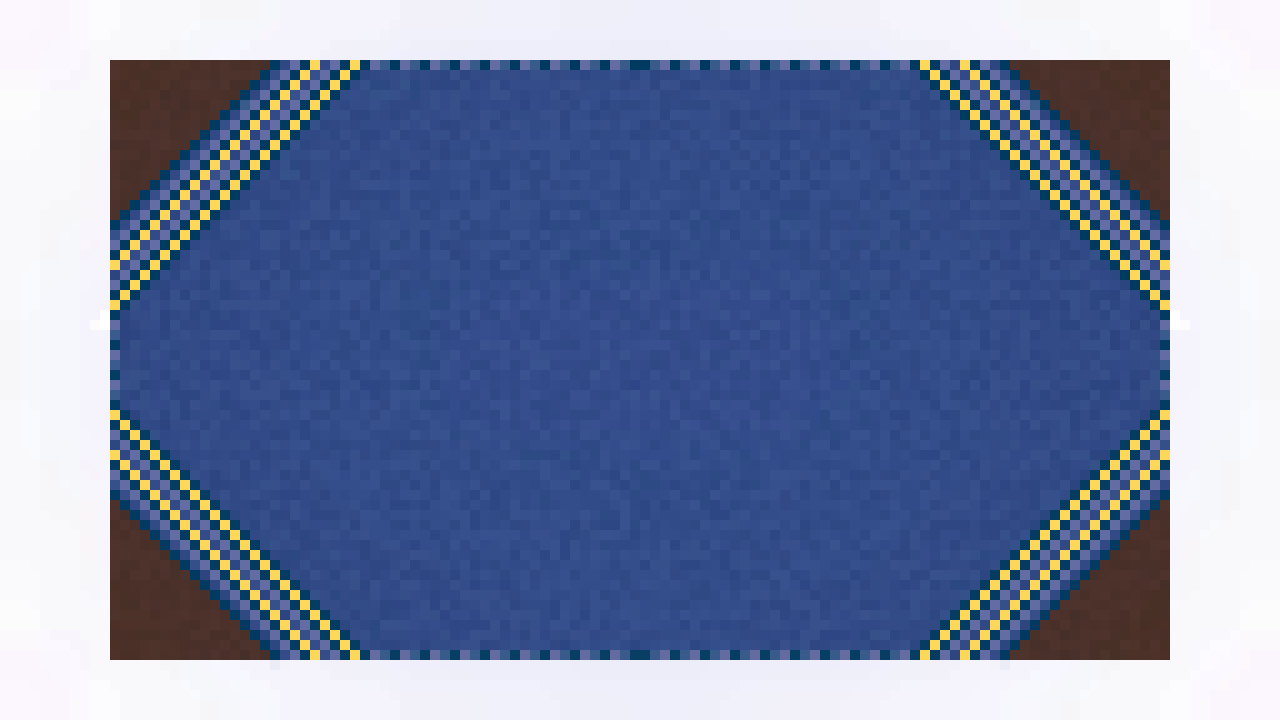
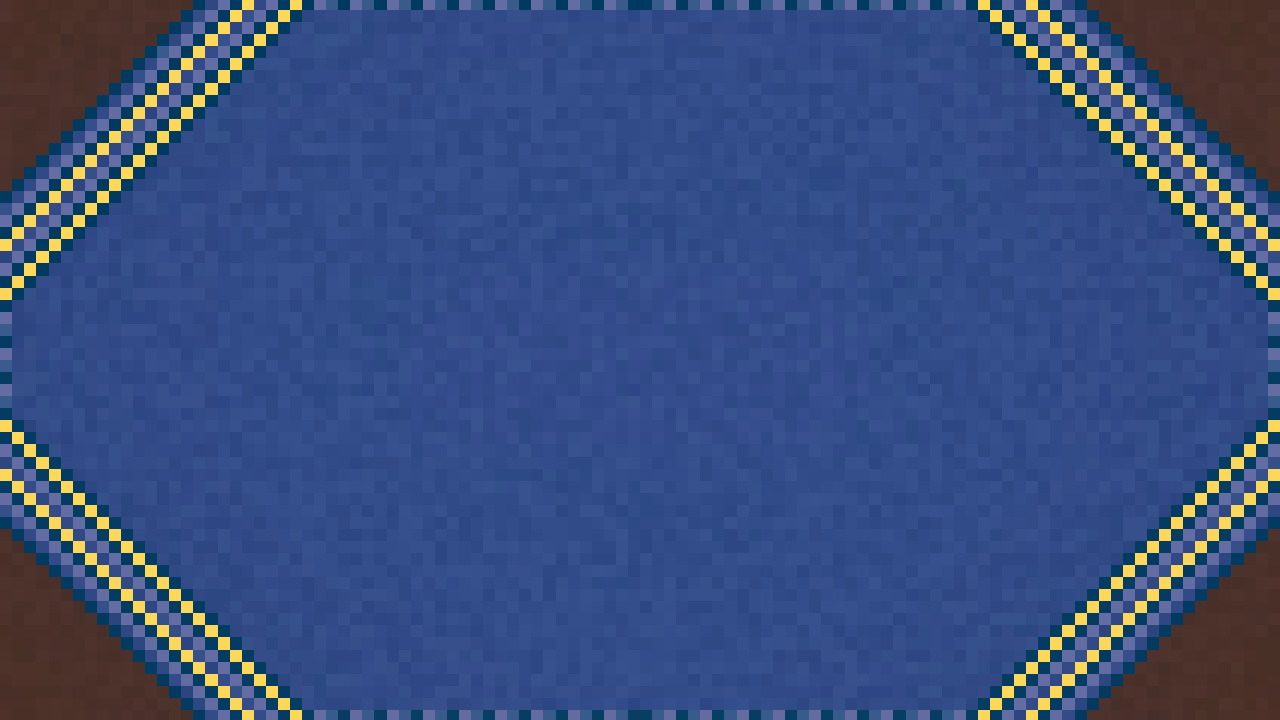
fix: fix table placement

diff --git a/lib/games/mitutuglung/views/game_screen.dart b/lib/games/mitutuglung/views/game_screen.dart
@@ -36,12 +36,11 @@ class MitutuglungGameScreenState extends BaseGameScreenState<
           fit: BoxFit.cover,
         ),
       ),
-      _buildTable(),
-      _buildCardsGrid(),
+      _buildGameArea(),
     ];
   }
 
-  Widget _buildCardsGrid() {
+  Widget _buildGameArea() {
     final cardsGrid = controller.getCardsGrid();
 
     return Positioned(
@@ -50,23 +49,18 @@ class MitutuglungGameScreenState extends BaseGameScreenState<
       right: 0,
       bottom: 50,
       child: Center(
-        child: Column(
-          mainAxisAlignment: MainAxisAlignment.center,
-          children: cardsGrid.map((row) => _buildCardRow(row)).toList(),
-        ),
-      ),
-    );
-  }
-
-  Widget _buildTable() {
-    return Positioned(
-      top: 100,
-      left: 0,
-      right: 0,
-      child: Center(
-        child: Image.asset(
-          'assets/mitutuglung/Table.PNG',
-          fit: BoxFit.contain,
+        child: Stack(
+          alignment: Alignment.center,
+          children: [
+            Image.asset(
+              'assets/mitutuglung/Table.PNG',
+              fit: BoxFit.contain,
+            ),
+            Column(
+              mainAxisAlignment: MainAxisAlignment.center,
+              children: cardsGrid.map((row) => _buildCardRow(row)).toList(),
+            ),
+          ],
         ),
       ),
     );
